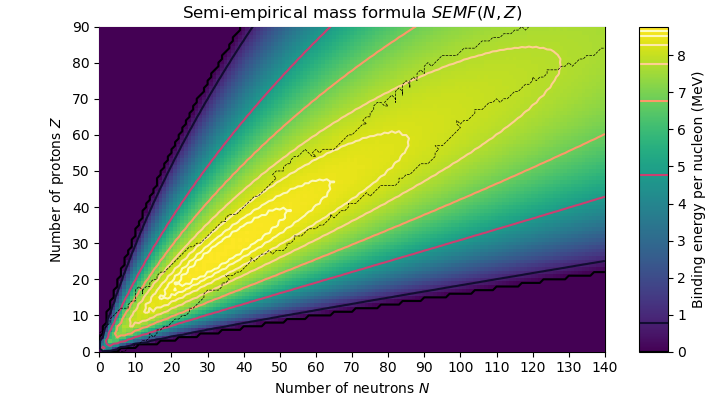
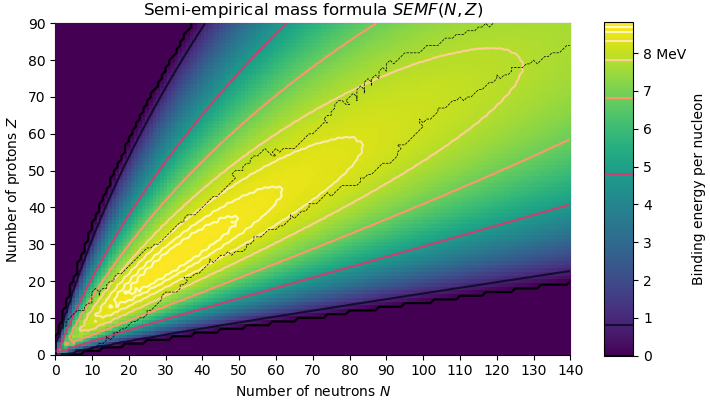
Switch to new coefficients

diff --git a/drop_data.py b/drop_data.py
@@ -16,14 +16,41 @@ df['E_exp'] = pd.to_numeric(df.E, errors='coerce')
 df['E_known'] = 1 - pd.isnull(df.E_exp)
 df['E'] = pd.to_numeric(df.E.str.replace('#',''))
 
-aV, aS, aC, aA, delta0 = 15750, 17800, 711, 23700, 11180  # keV
+# The following constants were obtained from a source. They were optimised.
+# All except the last constant are keV.
 
-@np.vectorize
-def binding_per_nucleon(N, Z):
-    A = Z + N
-    sgn = 0 if A % 2 else (-1 if Z % 2 else +1)
-    return ( aV - aS / A**(1/3)
-                - aC * Z**2 / A**(4/3)
-                - aA * (A-2*Z)**2/A**2
-                + delta0 * sgn/A**(3/2)
-    )
+DEFAULT_CONSTS = np.array([
+    15750, 17800, 711,
+    23700, 11180.01])
+
+def binding(consts):
+    aV, aS, aC, aA, aP = consts
+    def func(N, Z):
+        A = Z + N
+        sgn = 0 if A % 2 else (-1 if Z % 2 else +1)
+        return ( aV - aS / A**(1/3)
+                    - aC * Z**2 / A**(4/3)
+                    - aA * (N-Z)**2/A**2
+                    + aP * sgn/A**1.5)                  
+    return np.vectorize(func)
+
+A = df.N + df.Z
+clamp = np.vectorize(lambda x: 0 if x < 0 else 1 if x > 1 else x)
+Q = 5
+weight = clamp((A-Q)/Q)
+
+cost = lambda k: weight * (df.E - binding(k)(df.N, df.Z))
+def optimise():
+    from scipy.optimize import least_squares
+    return least_squares(
+        cost, DEFAULT_CONSTS, verbose=1, loss="soft_l1")
+
+# as obtained
+CONSTS = np.array([15123.31226824, 15791.00504405,   671.88325277, 21733.36561414,
+       10672.59798895])
+
+binding_per_nucleon = binding(CONSTS)
+
+if __name__ == '__main__':
+    result = optimise()
+    print(result)

diff --git a/drop_discrepancy.py b/drop_discrepancy.py
@@ -14,7 +14,7 @@ if __name__ == '__main__':
     data = df_dict('difference')
     E = grid_data(data, N, Z)
     
-    minE, maxE = -50, 150
+    minE, maxE = -200, 150
     E[E > 152] = float('nan')
     contours = np.linspace(minE, maxE, (maxE-minE)//25+1)
     contour = ax.contour(E, contours, **CONTOUR)
@@ -24,8 +24,11 @@ if __name__ == '__main__':
 
     image = ax.imshow(E, **GRAPH)
     cbar = fig.colorbar(image)
-    cbar.ax.set_ylabel('Binding energy per nucleon (keV)')
+    cbar.ax.set_ylabel('Binding energy per nucleon')
     cbar.set_ticks(contours)
+    labels = [str(int(x)) for x in contours]
+    labels[-2] += ' keV'
+    cbar.set_ticklabels(labels)
     cbar.add_lines(contour)
 
     # MAGIC NUMBERS
@@ -40,5 +43,5 @@ if __name__ == '__main__':
             ax.add_line(lines.Line2D((i, i), (z0, z1), **LINE))
             ax.annotate("$N={}$".format(i), (i+0.5, max(z0, 10)), **LABEL)
 
-    fig.set_size_inches(7.1, 4)
+    fig.set_size_inches(7.4, 4)
     pyplot.savefig('drop_discrepancy.png', transparency=True)

diff --git a/drop_prediction.py b/drop_prediction.py
@@ -18,16 +18,22 @@ def prediction(do_ticks, show_title, do_contours, do_stable):
 
     if do_contours:
         cbar = fig.colorbar(image)
-        cbar.ax.set_ylabel('Binding energy per nucleon (MeV)')
+        cbar.ax.set_ylabel('Binding energy per nucleon')
 
         M = E.max()
         contours = (0, M-8, M-4, M-2, M-1, M-1/2, M-1/4, M-1/8)
     else:
         contours = (0, )
+
+    ticks = np.arange(0, 9, 1)
+    labels = [str(int(x)) for x in ticks]
+    labels[-1] += ' MeV'
         
     contour_lines = ax.contour(E, contours, cmap='magma', zorder=5)
     if do_contours:
         cbar.add_lines(contour_lines)
+    cbar.set_ticks(ticks)
+    cbar.set_ticklabels(labels)
 
     if do_stable:
         E_known = grid_data(df_dict('E_known'), N, Z, orelse=0)

diff --git a/README.md b/README.md
@@ -1,8 +1,10 @@
 # Exploring current nuclear models
 
-Graphs on the Semi-Empirical Mass Formula (SEMF), an approximation for binding energy, as configured with least-squares fit<sup>1</sup>, and as contrasted to experimentally-obtained mass discrepancies<sup>2</sup>.
+Graphs on the Semi-Empirical Mass Formula (SEMF), an approximation for binding energy, as configured with least-squares fit, and as contrasted to experimentally-obtained mass discrepancies<sup>2</sup>.
 
 These graphs are used in some undergraduate papers; I have uncluded them in relevant Wikipedia articles (click the images for their Wikimedia Commons pages). As such, they are in the public domain under the Creative Commons CC0 license.
+
+While the original *a* coefficients were obtained via a textbook<sup>1</sup>, they are from 1994; therefore, this is used as the starting vector for a round of `scipy.optimize.least_squares`. Notably, the optimisation algorithm used takes a little less weight for nuclides of *A<5*, producing a more accurate curve. This new curve, which factors in data from AME2016, grazes the zero-discrepancy line a lot more often, but more importantly displays the (20, 20) doubly-magic nuclide with a lot more clarity.
 
 I'm currently managing these graphs, so please send a pull request to maintain consistency with the Wikipedia versions.
 
